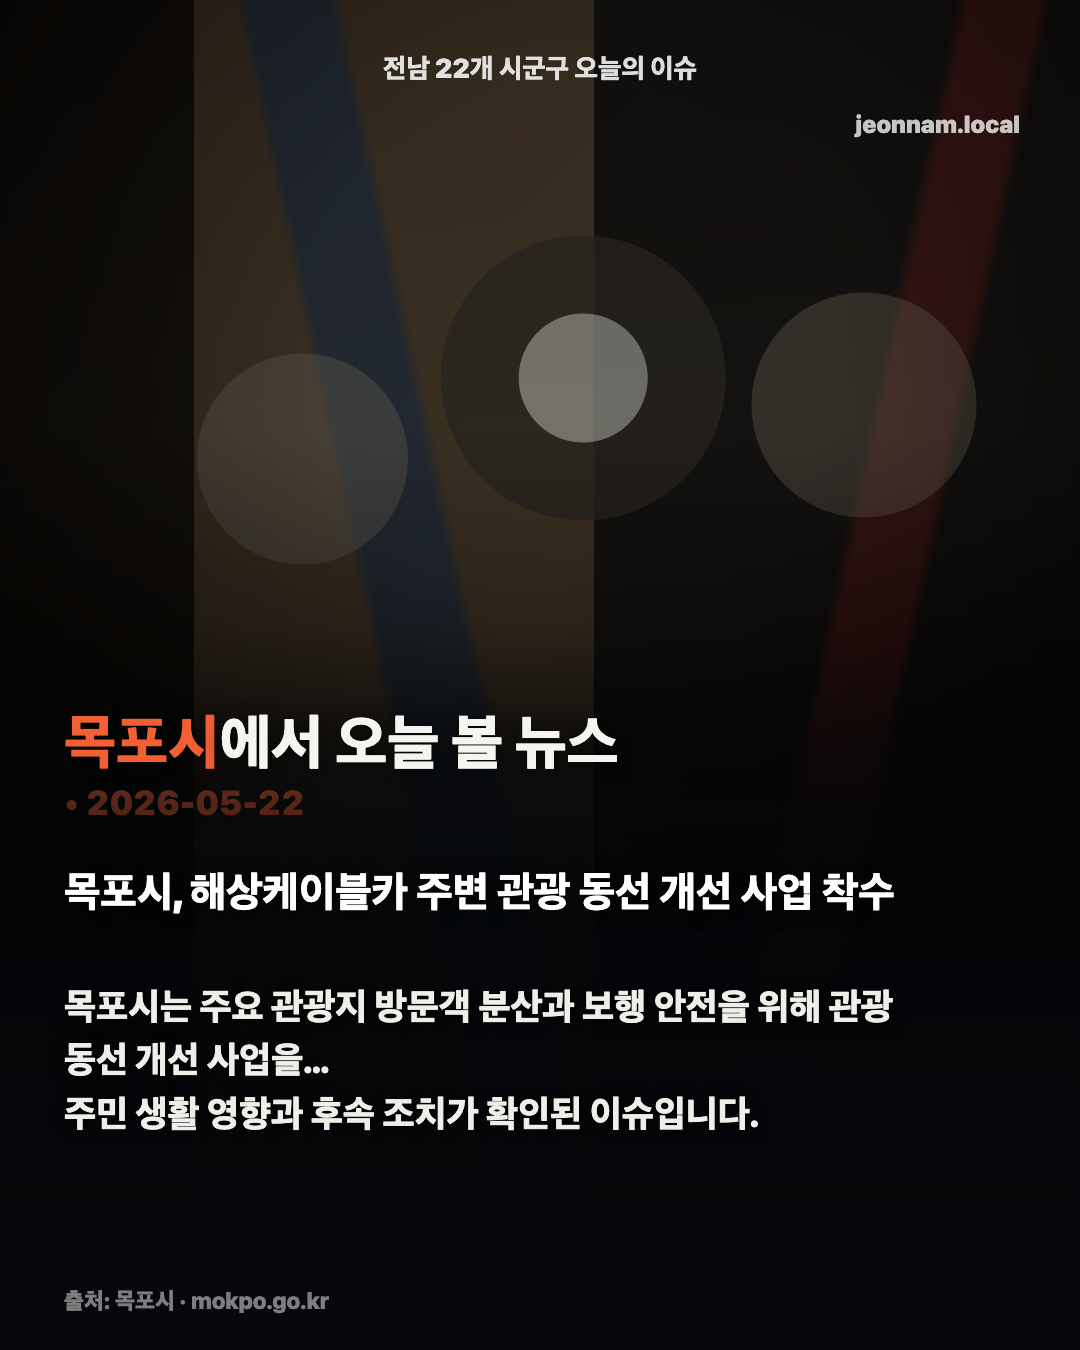
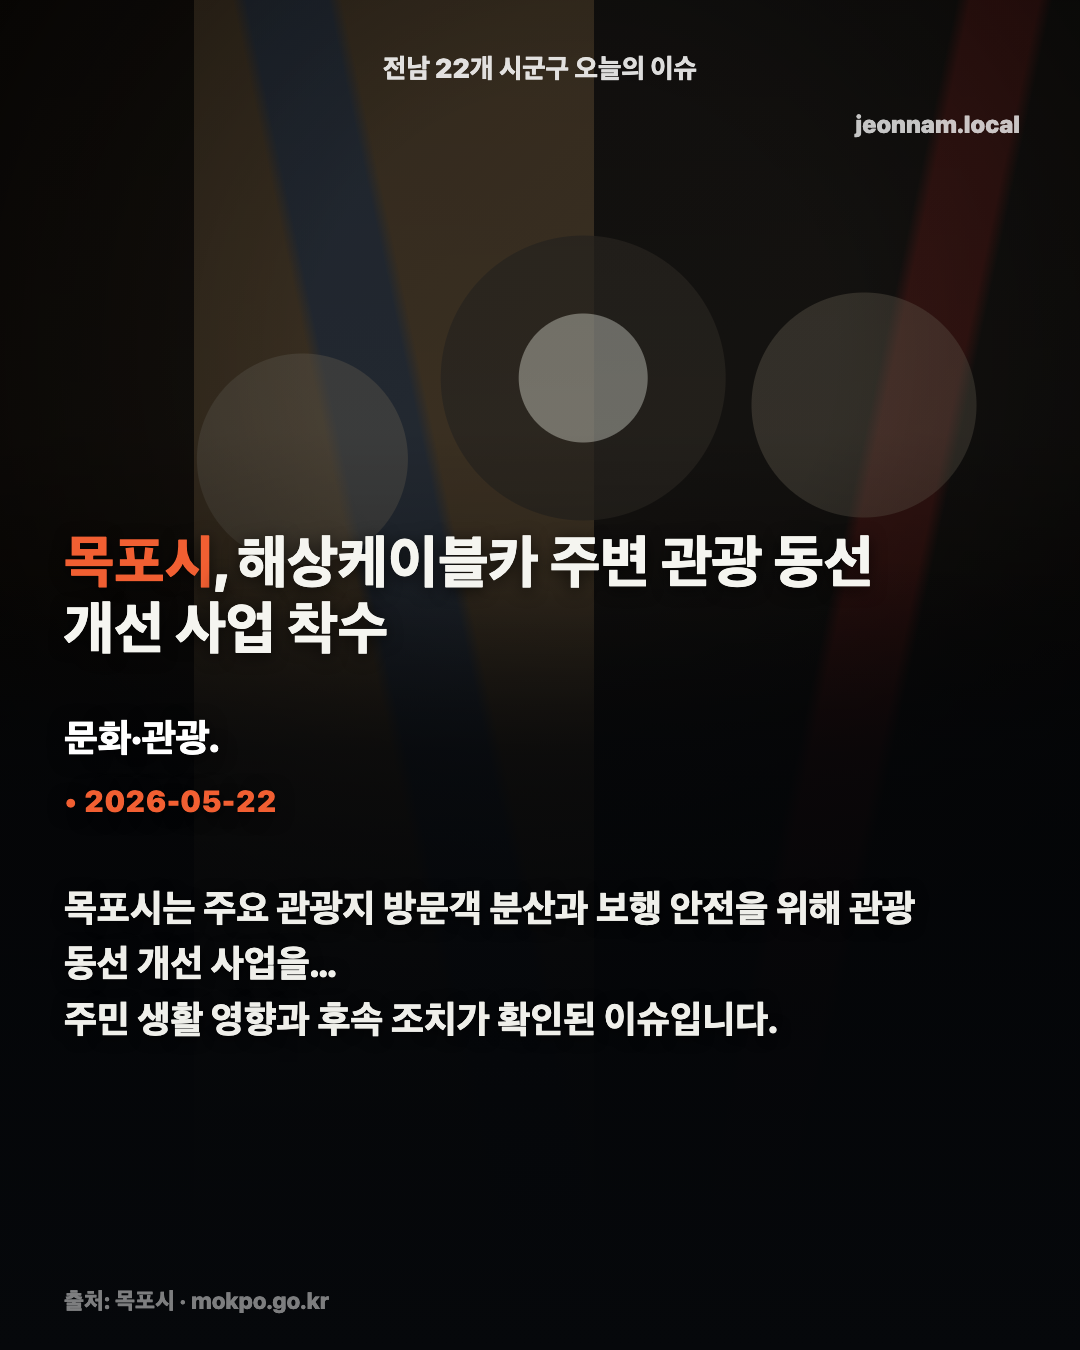
Use issue headline as card lead

Changed region(s): [[0.0611, 0.5289, 0.8556, 0.84], [0.0611, 0.3733, 0.825, 0.4978]]

diff --git a/reports/2026-05-22/html/목포시.html b/reports/2026-05-22/html/목포시.html
@@ -78,11 +78,9 @@
       text-align: right;
     }
     .date {
-      position: absolute;
-      left: 64px;
-      top: 782px;
+      margin-top: 18px;
       color: #f15f32;
-      font-size: 34px;
+      font-size: 30px;
       font-weight: 900;
       font-variant-numeric: tabular-nums;
       text-shadow: 0 3px 18px rgba(0,0,0,.7);
@@ -92,8 +90,8 @@
       left: 0;
       right: 0;
       bottom: 0;
-      min-height: 720px;
-      padding: 232px 64px 54px;
+      min-height: 790px;
+      padding: 150px 64px 54px;
       background: linear-gradient(180deg, transparent 0%, rgba(5,7,10,.66) 24%, #06080b 100%);
     }
     .headline {
@@ -101,11 +99,11 @@
       position: absolute;
       left: 64px;
       right: 64px;
-      top: 80px;
-      font-size: 60px;
-      line-height: 1.08;
+      top: -32px;
+      font-size: 58px;
+      line-height: 1.14;
       font-weight: 900;
-      max-width: 950px;
+      max-width: 900px;
       word-break: keep-all;
       text-shadow: 0 3px 16px rgba(0,0,0,.65);
     }
@@ -115,7 +113,7 @@
     .category {
       display: block;
       color: #fff;
-      font-size: 42px;
+      font-size: 39px;
       line-height: 1.42;
       font-weight: 900;
       word-break: keep-all;
@@ -123,9 +121,9 @@
       text-shadow: 0 3px 18px rgba(0,0,0,.7);
     }
     .summary {
-      margin-top: 58px;
+      margin-top: 62px;
       color: #efefea;
-      font-size: 37px;
+      font-size: 38px;
       line-height: 1.45;
       font-weight: 800;
       max-width: 880px;
@@ -160,10 +158,10 @@
     <div class="photo"></div>
     <div class="topline">전남 22개 시군구 오늘의 이슈</div>
     <div class="brand">jeonnam.local</div>
-    <div class="date">• 2026-05-22</div>
     <section class="panel">
-      <h1 class="headline"><span class="accent">목포시</span>에서 오늘 볼 뉴스</h1>
-      <div class="category">목포시, 해상케이블카 주변 관광 동선 개선 사업 착수</div>
+      <h1 class="headline"><span class="accent">목포시</span>, 해상케이블카 주변 관광 동선 개선 사업 착수</h1>
+      <div class="category">문화·관광.</div>
+      <div class="date">• 2026-05-22</div>
       <section class="summary">목포시는 주요 관광지 방문객 분산과 보행 안전을 위해 관광 동선 개선 사업을…<br>주민 생활 영향과 후속 조치가 확인된 이슈입니다.</section>
     </section>
     <footer class="source">출처: 목포시 · mokpo.go.kr</footer>

diff --git a/reports/2026-05-22/html/순천시.html b/reports/2026-05-22/html/순천시.html
@@ -78,11 +78,9 @@
       text-align: right;
     }
     .date {
-      position: absolute;
-      left: 64px;
-      top: 782px;
+      margin-top: 18px;
       color: #f15f32;
-      font-size: 34px;
+      font-size: 30px;
       font-weight: 900;
       font-variant-numeric: tabular-nums;
       text-shadow: 0 3px 18px rgba(0,0,0,.7);
@@ -92,8 +90,8 @@
       left: 0;
       right: 0;
       bottom: 0;
-      min-height: 720px;
-      padding: 232px 64px 54px;
+      min-height: 790px;
+      padding: 150px 64px 54px;
       background: linear-gradient(180deg, transparent 0%, rgba(5,7,10,.66) 24%, #06080b 100%);
     }
     .headline {
@@ -101,11 +99,11 @@
       position: absolute;
       left: 64px;
       right: 64px;
-      top: 80px;
-      font-size: 60px;
-      line-height: 1.08;
+      top: -32px;
+      font-size: 58px;
+      line-height: 1.14;
       font-weight: 900;
-      max-width: 950px;
+      max-width: 900px;
       word-break: keep-all;
       text-shadow: 0 3px 16px rgba(0,0,0,.65);
     }
@@ -115,7 +113,7 @@
     .category {
       display: block;
       color: #fff;
-      font-size: 42px;
+      font-size: 39px;
       line-height: 1.42;
       font-weight: 900;
       word-break: keep-all;
@@ -123,9 +121,9 @@
       text-shadow: 0 3px 18px rgba(0,0,0,.7);
     }
     .summary {
-      margin-top: 58px;
+      margin-top: 62px;
       color: #efefea;
-      font-size: 37px;
+      font-size: 38px;
       line-height: 1.45;
       font-weight: 800;
       max-width: 880px;
@@ -160,10 +158,10 @@
     <div class="photo"></div>
     <div class="topline">전남 22개 시군구 오늘의 이슈</div>
     <div class="brand">jeonnam.local</div>
-    <div class="date">• 2026-05-22</div>
     <section class="panel">
-      <h1 class="headline"><span class="accent">순천시</span>에서 오늘 볼 뉴스</h1>
-      <div class="category">순천시, 청년 창업공간 입주기업 추가 모집</div>
+      <h1 class="headline"><span class="accent">순천시</span>, 청년 창업공간 입주기업 추가 모집</h1>
+      <div class="category">복지·생활.</div>
+      <div class="date">• 2026-05-22</div>
       <section class="summary">순천시는 지역 청년 창업 지원을 위해 창업공간 입주기업을 추가 모집하고 멘토…<br>주민 생활 영향과 후속 조치가 확인된 이슈입니다.</section>
     </section>
     <footer class="source">출처: 순천시 · suncheon.go.kr</footer>

diff --git a/reports/2026-05-22/html/여수시.html b/reports/2026-05-22/html/여수시.html
@@ -78,11 +78,9 @@
       text-align: right;
     }
     .date {
-      position: absolute;
-      left: 64px;
-      top: 782px;
+      margin-top: 18px;
       color: #f15f32;
-      font-size: 34px;
+      font-size: 30px;
       font-weight: 900;
       font-variant-numeric: tabular-nums;
       text-shadow: 0 3px 18px rgba(0,0,0,.7);
@@ -92,8 +90,8 @@
       left: 0;
       right: 0;
       bottom: 0;
-      min-height: 720px;
-      padding: 232px 64px 54px;
+      min-height: 790px;
+      padding: 150px 64px 54px;
       background: linear-gradient(180deg, transparent 0%, rgba(5,7,10,.66) 24%, #06080b 100%);
     }
     .headline {
@@ -101,11 +99,11 @@
       position: absolute;
       left: 64px;
       right: 64px;
-      top: 80px;
-      font-size: 60px;
-      line-height: 1.08;
+      top: -32px;
+      font-size: 58px;
+      line-height: 1.14;
       font-weight: 900;
-      max-width: 950px;
+      max-width: 900px;
       word-break: keep-all;
       text-shadow: 0 3px 16px rgba(0,0,0,.65);
     }
@@ -115,7 +113,7 @@
     .category {
       display: block;
       color: #fff;
-      font-size: 42px;
+      font-size: 39px;
       line-height: 1.42;
       font-weight: 900;
       word-break: keep-all;
@@ -123,9 +121,9 @@
       text-shadow: 0 3px 18px rgba(0,0,0,.7);
     }
     .summary {
-      margin-top: 58px;
+      margin-top: 62px;
       color: #efefea;
-      font-size: 37px;
+      font-size: 38px;
       line-height: 1.45;
       font-weight: 800;
       max-width: 880px;
@@ -160,10 +158,10 @@
     <div class="photo"></div>
     <div class="topline">전남 22개 시군구 오늘의 이슈</div>
     <div class="brand">jeonnam.local</div>
-    <div class="date">• 2026-05-22</div>
     <section class="panel">
-      <h1 class="headline"><span class="accent">여수시</span>에서 오늘 볼 뉴스</h1>
-      <div class="category">여수시, 장마철 침수 취약도로 사전 점검 강화</div>
+      <h1 class="headline"><span class="accent">여수시</span>, 장마철 침수 취약도로 사전 점검 강화</h1>
+      <div class="category">안전·교통.</div>
+      <div class="date">• 2026-05-22</div>
       <section class="summary">여수시는 장마철을 앞두고 침수 취약도로와 해안 저지대 배수시설을 점검하고 교…<br>주민 생활 영향과 후속 조치가 확인된 이슈입니다.</section>
     </section>
     <footer class="source">출처: 여수시 · yeosu.go.kr</footer>

diff --git a/templates/card.html b/templates/card.html
@@ -78,11 +78,9 @@
       text-align: right;
     }
     .date {
-      position: absolute;
-      left: 64px;
-      top: 782px;
+      margin-top: 18px;
       color: #f15f32;
-      font-size: 34px;
+      font-size: 30px;
       font-weight: 900;
       font-variant-numeric: tabular-nums;
       text-shadow: 0 3px 18px rgba(0,0,0,.7);
@@ -92,8 +90,8 @@
       left: 0;
       right: 0;
       bottom: 0;
-      min-height: 720px;
-      padding: 232px 64px 54px;
+      min-height: 790px;
+      padding: 150px 64px 54px;
       background: linear-gradient(180deg, transparent 0%, rgba(5,7,10,.66) 24%, #06080b 100%);
     }
     .headline {
@@ -101,11 +99,11 @@
       position: absolute;
       left: 64px;
       right: 64px;
-      top: 80px;
-      font-size: 60px;
-      line-height: 1.08;
+      top: -32px;
+      font-size: 58px;
+      line-height: 1.14;
       font-weight: 900;
-      max-width: 950px;
+      max-width: 900px;
       word-break: keep-all;
       text-shadow: 0 3px 16px rgba(0,0,0,.65);
     }
@@ -115,7 +113,7 @@
     .category {
       display: block;
       color: #fff;
-      font-size: 42px;
+      font-size: 39px;
       line-height: 1.42;
       font-weight: 900;
       word-break: keep-all;
@@ -123,9 +121,9 @@
       text-shadow: 0 3px 18px rgba(0,0,0,.7);
     }
     .summary {
-      margin-top: 58px;
+      margin-top: 62px;
       color: #efefea;
-      font-size: 37px;
+      font-size: 38px;
       line-height: 1.45;
       font-weight: 800;
       max-width: 880px;
@@ -160,10 +158,10 @@
     <div class="photo"></div>
     <div class="topline">전남 22개 시군구 오늘의 이슈</div>
     <div class="brand">jeonnam.local</div>
-    <div class="date">• {{date_label}}</div>
     <section class="panel">
-      <h1 class="headline"><span class="accent">{{region}}</span>에서 오늘 볼 뉴스</h1>
-      <div class="category">{{headline}}</div>
+      <h1 class="headline">{{accented_headline}}</h1>
+      <div class="category">{{category_label}}.</div>
+      <div class="date">• {{date_label}}</div>
       <section class="summary">{{summary_html}}</section>
     </section>
     <footer class="source">출처: {{source_label}}</footer>

diff --git a/scripts/render_daily.py b/scripts/render_daily.py
@@ -11,11 +11,15 @@ from common import ROOT, load_json
 
 def fill_template(template: str, spec: dict) -> str:
     summary_html = "<br>".join(html.escape(line) for line in spec["summary_lines"])
+    headline = html.escape(spec["headline"])
+    region = html.escape(spec["region"])
+    accented_headline = headline.replace(region, f'<span class="accent">{region}</span>', 1)
     values = {
         "date_label": spec["date"],
-        "region": spec["region"],
+        "region": region,
         "category_label": spec["category_label"],
-        "headline": html.escape(spec["headline"]),
+        "headline": headline,
+        "accented_headline": accented_headline,
         "summary_html": summary_html,
         "source_label": html.escape(spec["source_label"]),
         "confidence_label": "HIGH" if spec["confidence"] == "high" else "MEDIUM",
@@ -59,4 +63,3 @@ def main() -> None:
 
 if __name__ == "__main__":
     main()
-